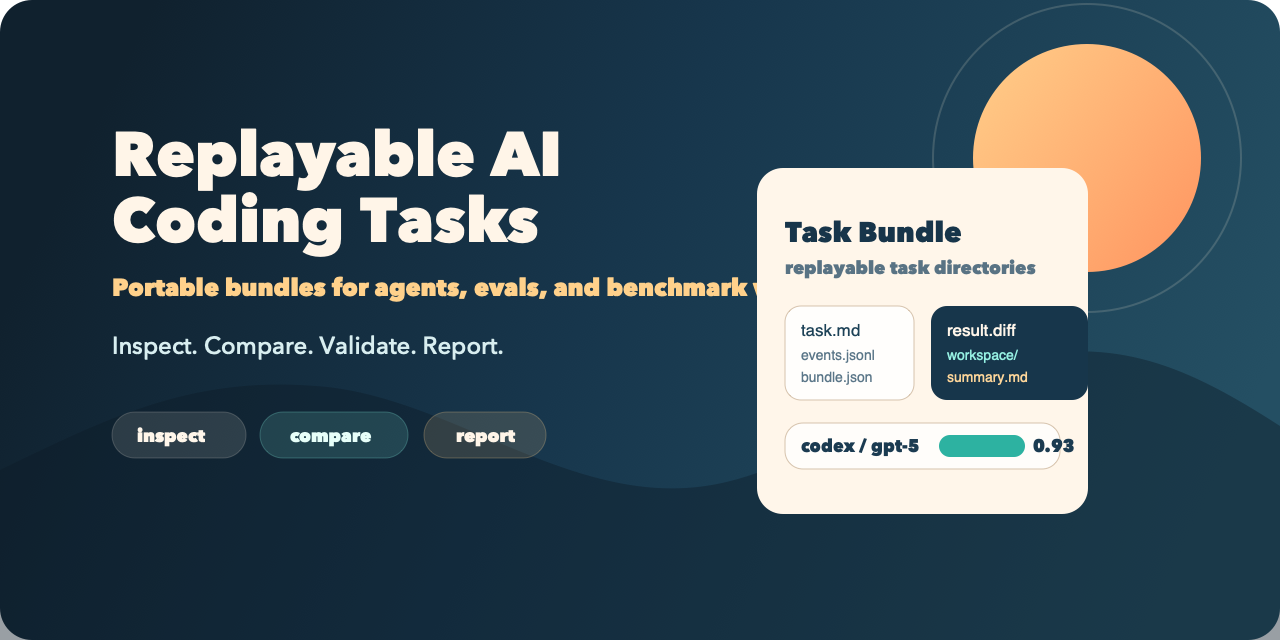
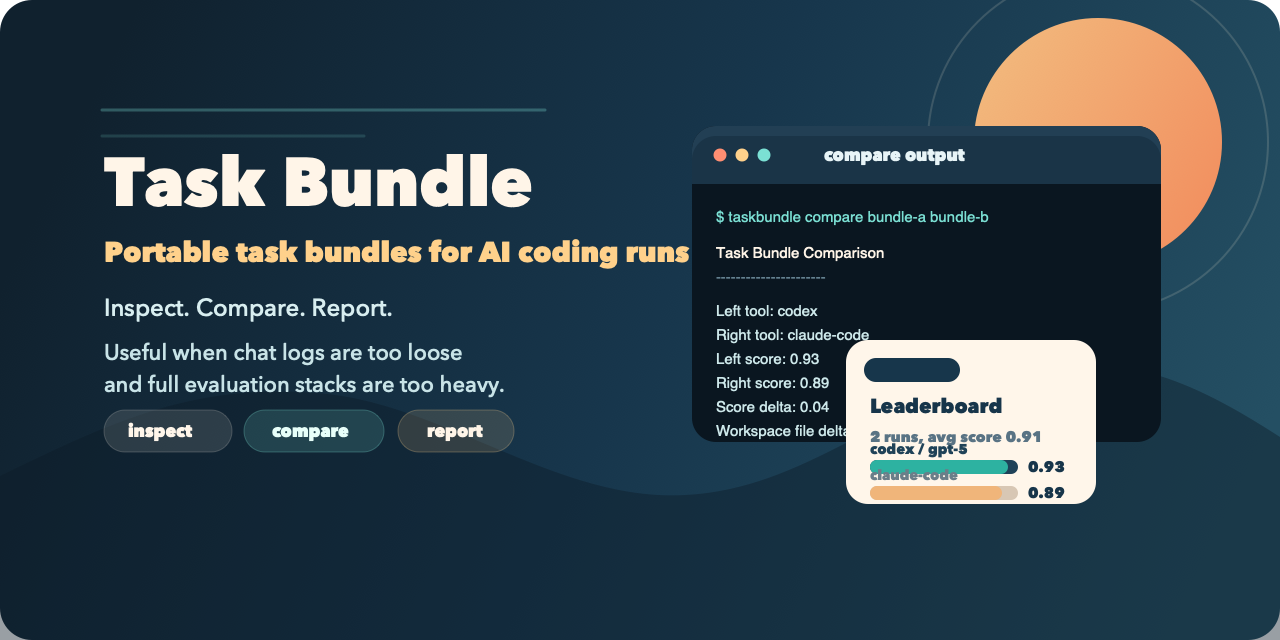
Refresh social preview artwork

diff --git a/docs/branding.md b/docs/branding.md
@@ -11,7 +11,7 @@ This repository includes the visual assets used in the README and GitHub social 
 - `assets/terminal-showcase.svg`
   Three-panel terminal preview used to show real inspect, compare, and report output.
 - `assets/social-preview.svg`
-  Source artwork for GitHub social preview uploads.
+  Source artwork for GitHub social preview uploads, showing compare output and a leaderboard snapshot.
 - `assets/social-preview.png`
   Recommended raster export for GitHub social preview uploads.
 

diff --git a/docs/branding.zh-CN.md b/docs/branding.zh-CN.md
@@ -11,7 +11,7 @@
 - `assets/terminal-showcase.svg`
   README 中使用的终端展示图，用来展示 inspect、compare、report 的真实输出。
 - `assets/social-preview.svg`
-  GitHub 社交预览图的可编辑源文件。
+  GitHub 社交预览图的可编辑源文件，里面会展示 compare 输出和 leaderboard 快照。
 - `assets/social-preview.png`
   GitHub 社交预览图的 PNG 版本。
 
